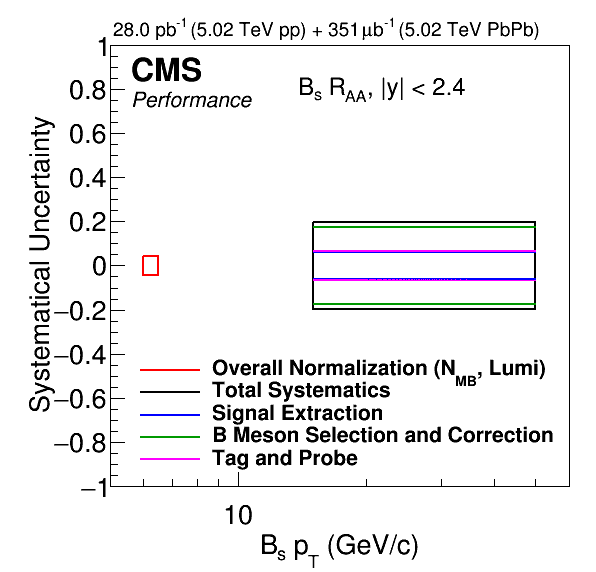
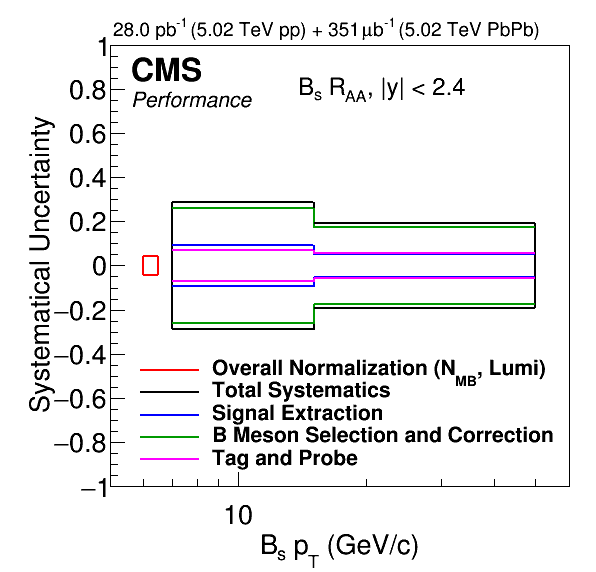
update

Changed region(s): [[0.2718, 0.3269, 0.906, 0.5944]]

diff --git a/CrossSection/others/syscal.py b/CrossSection/others/syscal.py
@@ -1,23 +1,31 @@
 import math
-sys0 = [0, 8, 5.5, 2.7, 3.1, 2.8, 5.6, 0.49]
-sys1 = [0, 8, 5.5, 2.7, 4.2, 0.45, 5.6, 0.49]
-sys2 = [0, 8, 5.5, 2.7, 3.3, 0.81, 5.6, 0.49]
-sys3 = [0, 8, 5.5, 2.7, 3.0, 2.2, 5.6, 0.49]
-sys4 = [0, 8, 5.5, 2.7, 2.8, 3.2, 5.6, 0.49]
-sysAA = [0, 12, 5.6, 4.9, 3.8, 3.0, 2.5, 2.1]
+sys0 = [0, 8, 11, 6.5, 4.4, 1.8, 1.9, 2.5, 0.78]
+sys1 = [0, 8, 0.81, 2.3, 3.1, 1.9, 2.8, 0.58, 0.47]
+
+sys01 = [0, 8, 0.81, 0.46, 3.4, 1.5, 2.8, 0.58, 0.76]
+sys02 = [0, 8, 0.81, 0.9, 3.0, 1.8, 2.8, 0.58, 0.53]
+
+sysAA0 = [0, 12, 15, 7.9, 5.1, 1.8, 8.3, 3.2, 4.9]
+sysAA1 = [0, 12, 8.5, 3.8, 3.8, 1.9, 1.1, 4.3, 2.1]
+
 for i in range (len(sys0)):
 	sys0[0] += sys0[i]*sys0[i]
 	sys1[0] += sys1[i]*sys1[i]
-	sys2[0] += sys2[i]*sys2[i]
-	sys3[0] += sys3[i]*sys3[i]
-	sys4[0] += sys4[i]*sys4[i]
-	sysAA[0] += sysAA[i]*sysAA[i]
+	sys01[0] += sys01[i]*sys01[i]
+	sys02[0] += sys02[i]*sys02[i]
+	sysAA0[0] += sysAA0[i]*sysAA0[i]
+	sysAA1[0] += sysAA1[i]*sysAA1[i]
+	print "bin1: ",math.sqrt(sys0[i]*sys0[i]+sysAA0[i]*sysAA0[i])
+	print "bin2: ",math.sqrt(sys1[i]*sys1[i]+sysAA1[i]*sysAA1[i])
+print "========="
 print sys0[0], math.sqrt(sys0[0])
 print sys1[0], math.sqrt(sys1[0])
-print sys2[0], math.sqrt(sys2[0])
-print sys3[0], math.sqrt(sys3[0])
-print sys4[0], math.sqrt(sys4[0])
-print sysAA[0], math.sqrt(sysAA[0])
-tot = sys0[0] + sysAA[0]
-print tot, math.sqrt(tot)
+print sys01[0], math.sqrt(sys01[0])
+print sys02[0], math.sqrt(sys02[0])
+print sysAA0[0], math.sqrt(sysAA0[0])
+print sysAA1[0], math.sqrt(sysAA1[0])
+tot0 = sys0[0] + sysAA0[0]
+tot1 = sys1[0] + sysAA1[0]
+print tot0, math.sqrt(tot0)
+print tot1, math.sqrt(tot1)
 

diff --git a/Systematics/systematics.C b/Systematics/systematics.C
@@ -422,6 +422,8 @@ float systematicsPbPb(double pt, bool TAAhi = 1, double centL=0,double centH=100
 	if (!initialized && centL==0&&centH==100) initialization(centL,centH,SysOpt);
 	if (!initialized && centL==0&&centH==10) initialization(centL,centH,SysOpt);
 	double sys=0;
+    if (pt < PtBins[0]) return 0;
+    if (pt >= PtBins[nPtBins]) pt = PtBins[nPtBins]-0.1;
     if (stage==1) return sqrt(sys);
 
 	sys+= PbPbSignalExtractionSigVar->GetBinContent(PbPbSignalExtractionSigVar->FindBin(pt))* 
@@ -454,6 +456,8 @@ float systematicsPbPb_Correlated(double pt, bool TAAhi = 1, double centL=0, doub
 	if (!initialized && centL==0&&centH==100) initialization(centL,centH,SysOpt);
 	if (!initialized && centL==0&&centH==10) initialization(centL,centH,SysOpt);
 	double sys=0;
+    if (pt < PtBins[0]) return 0;
+    if (pt >= PtBins[nPtBins]) pt = PtBins[nPtBins]-0.1;
 
 	sys+= PbPbSignalExtractionSigVar->GetBinContent(PbPbSignalExtractionSigVar->FindBin(pt))* 
 		PbPbSignalExtractionSigVar->GetBinContent(PbPbSignalExtractionSigVar->FindBin(pt));
@@ -473,6 +477,8 @@ float systematicsPbPb_UnCorrelated(double pt, bool TAAhi = 1, double centL=0, do
 	if (!initialized && centL==0&&centH==100) initialization(centL,centH,SysOpt);
 	if (!initialized && centL==0&&centH==10) initialization(centL,centH,SysOpt);
 	double sys=0;
+    if (pt < PtBins[0]) return 0;
+    if (pt >= PtBins[nPtBins]) pt = PtBins[nPtBins]-0.1;
 
 	sys+= PbPbEff->GetBinError(PbPbEff->FindBin(pt))/PbPbEff->GetBinContent(PbPbEff->FindBin(pt))*100*
 		PbPbEff->GetBinError(PbPbEff->FindBin(pt))/PbPbEff->GetBinContent(PbPbEff->FindBin(pt))*100;

diff --git a/CrossSection/plotRAA/canvasRAAPbPb_0_100_BpRAA.C b/CrossSection/plotRAA/canvasRAAPbPb_0_100_BpRAA.C
@@ -1,7 +1,7 @@
 void canvasRAAPbPb_0_100_BpRAA()
 {
 //=========Macro generated from canvas: canvasRAA/canvasRAA
-//=========  (Mon Apr 16 15:09:39 2018) by ROOT version6.02/13
+//=========  (Mon Apr 16 15:19:12 2018) by ROOT version6.02/13
    TCanvas *canvasRAA = new TCanvas("canvasRAA", "canvasRAA",0,0,600,600);
    gStyle->SetOptStat(0);
    gStyle->SetOptTitle(0);

diff --git a/CrossSection/plotCrossSection/plotCrossSection/canvasSigmaBplusRatioPbPb_0_100.C b/CrossSection/plotCrossSection/plotCrossSection/canvasSigmaBplusRatioPbPb_0_100.C
@@ -1,7 +1,7 @@
 void canvasSigmaBplusRatioPbPb_0_100()
 {
 //=========Macro generated from canvas: cSigma/
-//=========  (Mon Apr 16 15:09:58 2018) by ROOT version6.02/13
+//=========  (Mon Apr 16 15:17:39 2018) by ROOT version6.02/13
    TCanvas *cSigma = new TCanvas("cSigma", "",0,0,600,600);
    gStyle->SetOptStat(0);
    gStyle->SetOptTitle(0);

diff --git a/CrossSection/plotCrossSection/plotCrossSection/canvasSigmaBplusRatiopp.C b/CrossSection/plotCrossSection/plotCrossSection/canvasSigmaBplusRatiopp.C
@@ -1,7 +1,7 @@
 void canvasSigmaBplusRatiopp()
 {
 //=========Macro generated from canvas: cSigma/
-//=========  (Mon Apr 16 15:09:57 2018) by ROOT version6.02/13
+//=========  (Mon Apr 16 15:17:04 2018) by ROOT version6.02/13
    TCanvas *cSigma = new TCanvas("cSigma", "",0,0,600,600);
    gStyle->SetOptStat(0);
    gStyle->SetOptTitle(0);

diff --git a/CrossSection/plotCrossSection/plotCrossSection_750/canvasSigmaBplusRatiopp.C b/CrossSection/plotCrossSection/plotCrossSection_750/canvasSigmaBplusRatiopp.C
@@ -1,7 +1,7 @@
 void canvasSigmaBplusRatiopp()
 {
 //=========Macro generated from canvas: cSigma/
-//=========  (Mon Apr 16 15:09:42 2018) by ROOT version6.02/13
+//=========  (Mon Apr 16 15:18:13 2018) by ROOT version6.02/13
    TCanvas *cSigma = new TCanvas("cSigma", "",0,0,600,600);
    gStyle->SetOptStat(0);
    gStyle->SetOptTitle(0);
